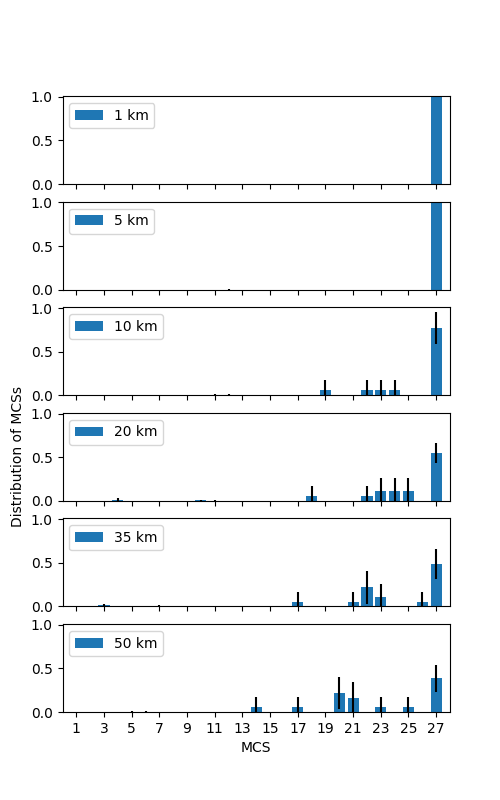
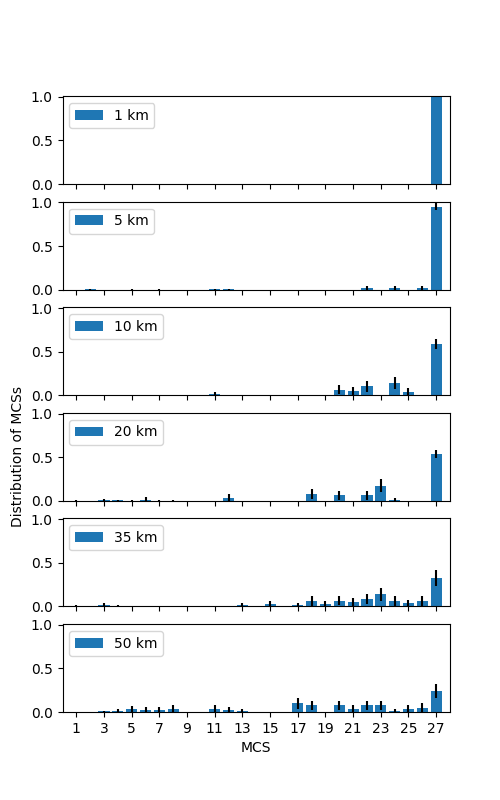
Retesting EESM

diff --git a/src/lte/model/lte-eesm-error-model.cc b/src/lte/model/lte-eesm-error-model.cc
@@ -566,8 +566,8 @@ namespace ns3 {
                 if (cb_index != curr_cb)
                 {
                     // calculate the effective SNR and corresponding BLER
-                    //snrEff = -beta*log(avg_cb_sinr/n);
-                    snrEff = 10*log10(avg_cb_sinr/n);
+                    snrEff = -beta*log(avg_cb_sinr/n);
+                    //snrEff = 10*log10(avg_cb_sinr/n);
                     cbler = MappingMiBler(snrEff, mcs, cb_size, num, chan);
 
                     // then aggregate the error rate of the TB
@@ -582,14 +582,14 @@ namespace ns3 {
                 }
 
                 // calculate effective SNR fraction of the current PRB of a given CB
-                //avg_cb_sinr += exp(-10 * log10(prb_sinr) / beta) * prb_fraction;
-                avg_cb_sinr += prb_sinr * prb_fraction;
+                avg_cb_sinr += exp(-10 * log10(prb_sinr) / beta) * prb_fraction;
+                //avg_cb_sinr += prb_sinr * prb_fraction;
                 n += prb_fraction;
 
             }
             // calculate the effective SNR and corresponding BLER of the last CB
-            //snrEff = -beta*log(avg_cb_sinr/n);
-            snrEff = 10*log10(avg_cb_sinr/n);
+            snrEff = -beta*log(avg_cb_sinr/n);
+            //snrEff = 10*log10(avg_cb_sinr/n);
             cbler = MappingMiBler(snrEff, mcs, cb_size, num, chan);
 
             // then aggregate the error rate of the TB

diff --git a/scratch/5grange_validation/bench_validation.py b/scratch/5grange_validation/bench_validation.py
@@ -300,7 +300,7 @@ if __name__ == "__main__":
     channel_models = ("CDL_D", "CDL_A",)  # "RANGE5G",
     forcedMaxMcs = (False, )  # False, True,)
     distances = [ 1, 5, 10, 20, 35, 50, ]  # 10, 20, 30, 40,
-    batches = 10
+    batches = 40
 
     thread_parameters = []
     # Create folders to dump simulation results
@@ -500,7 +500,7 @@ if __name__ == "__main__":
             error_dataset = OrderedDict({"THR": {},
                              "TBLER": {}
                              })
-            z_value = 2.262  # p=0.05 requires 1.96 with #samples=infty, 2.0 with #samples=40, 2.262 with #samples=10, 4.303 with #samples=3
+            z_value = 2.0  # p=0.05 requires 1.96 with #samples=infty, 2.0 with #samples=40, 2.262 with #samples=10, 4.303 with #samples=3
             for lab in sorted(list(THR.keys())):
                 received_throughput_per_d = {}
                 received_throughput_per_d_error = {}
